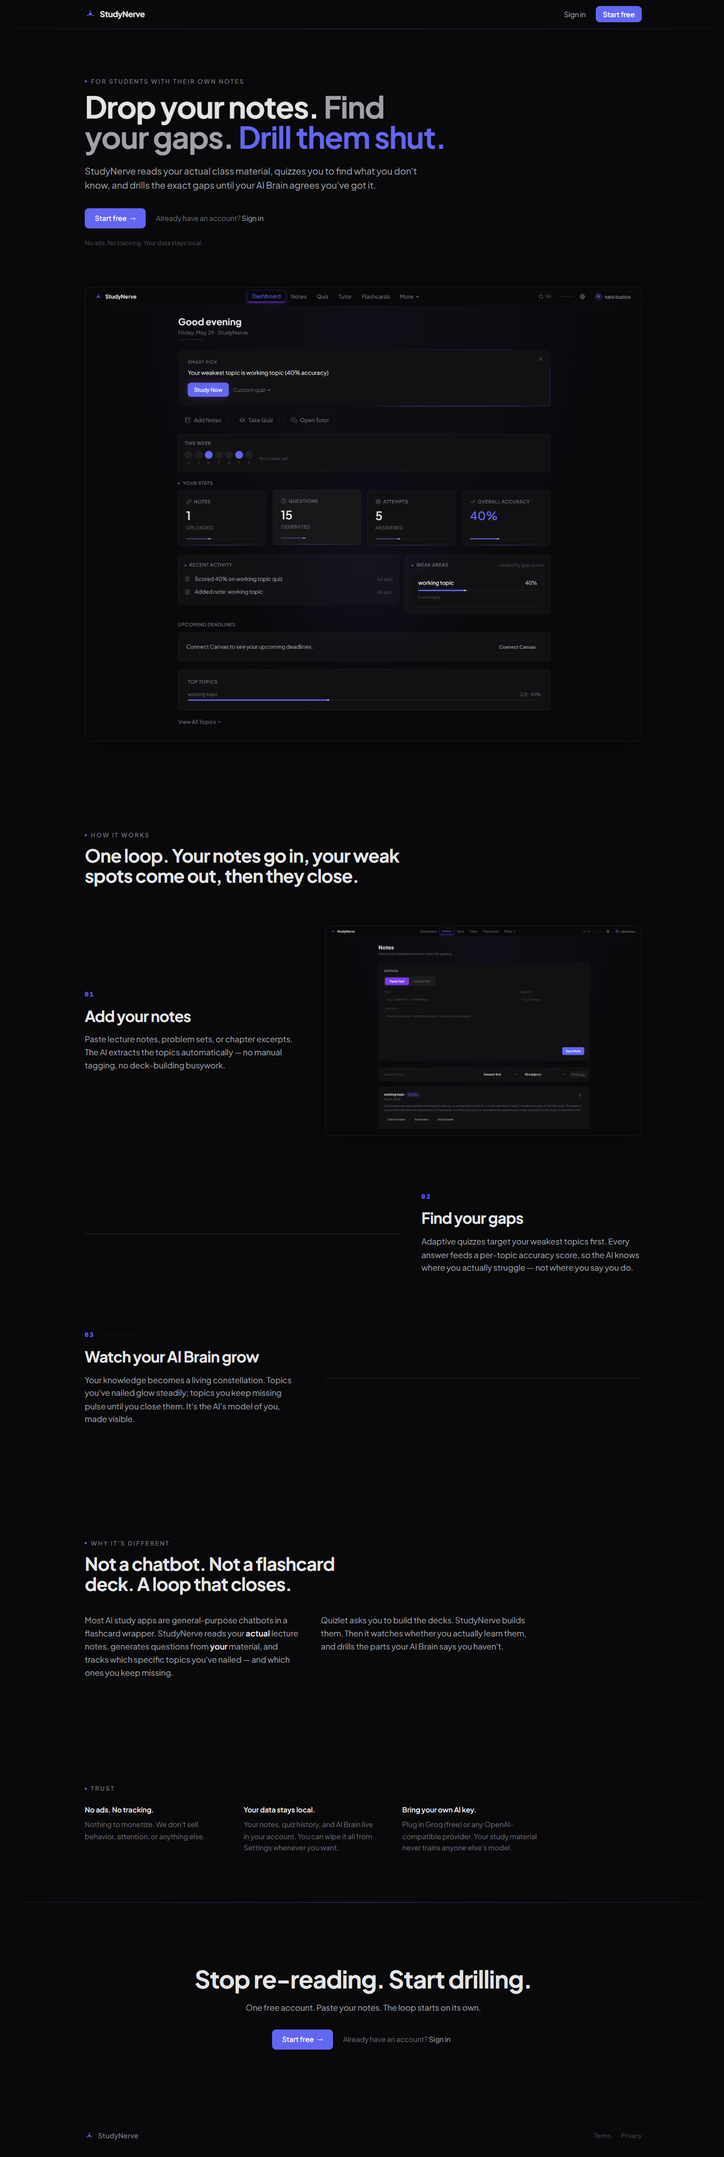
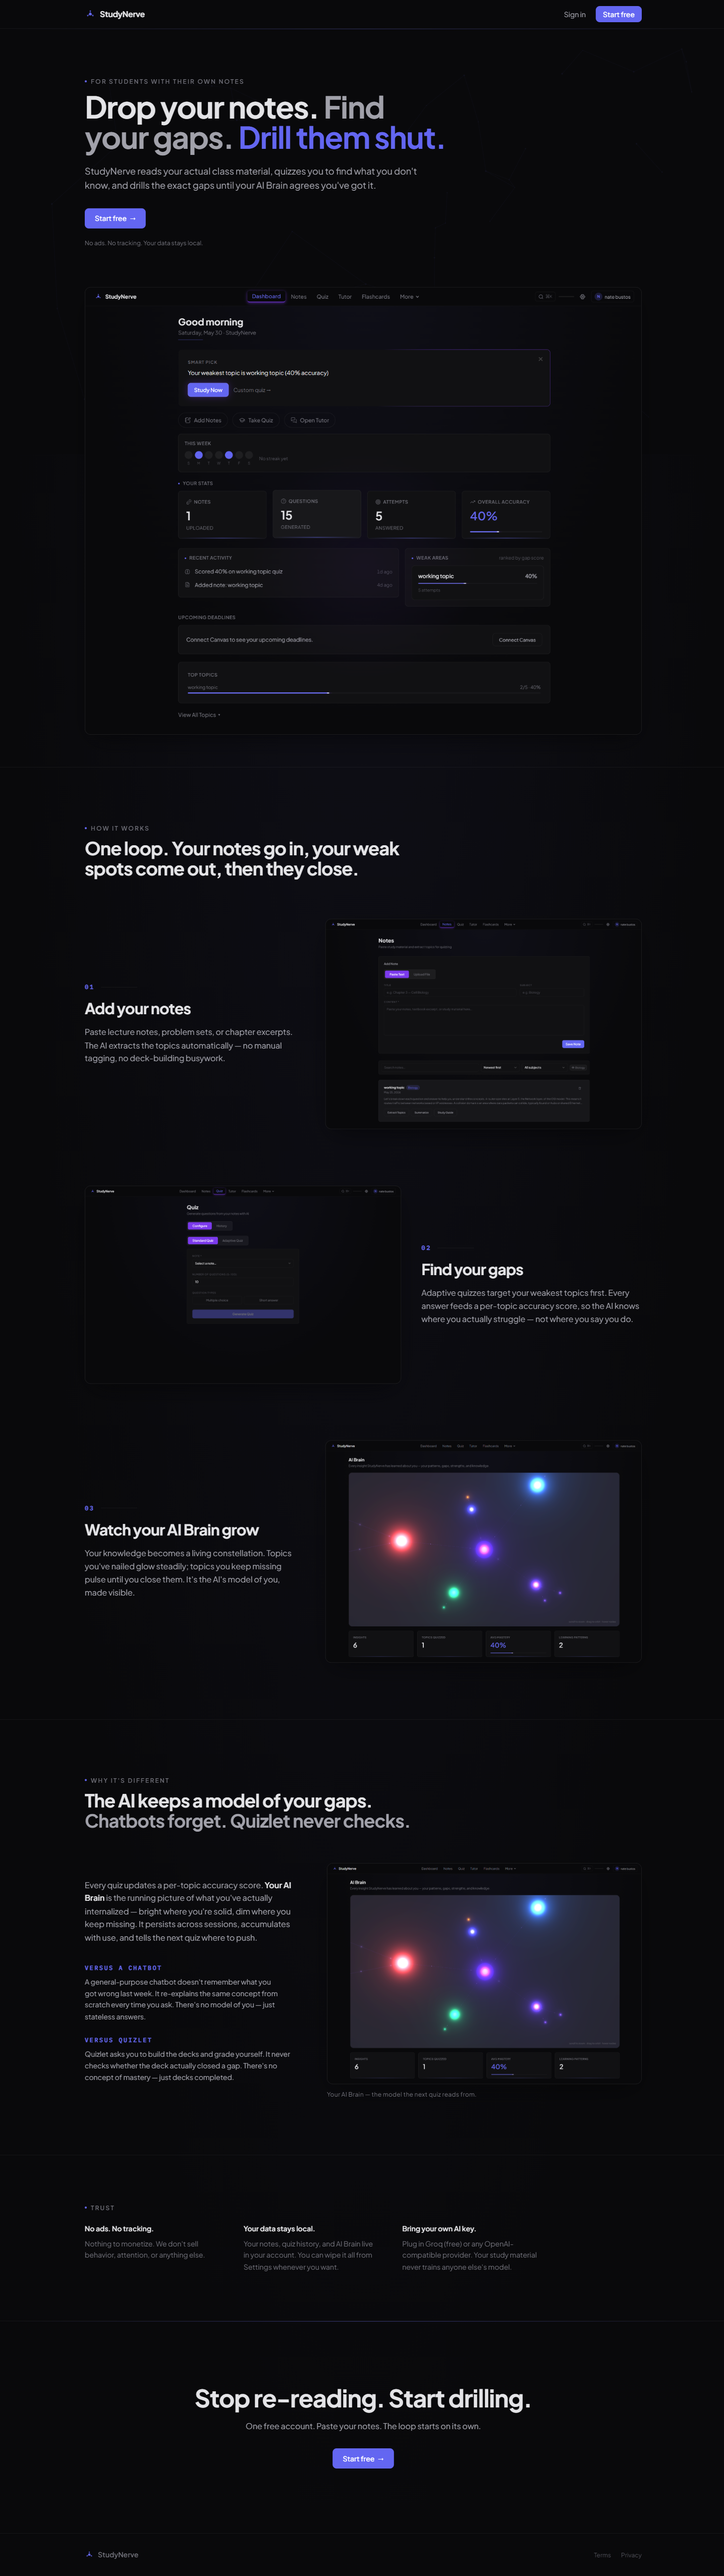
polish(landing): faint synapse-mesh background; DESIGN_LANGUAGE §5 update

diff --git a/frontend/src/pages/Landing.jsx b/frontend/src/pages/Landing.jsx
@@ -78,9 +78,91 @@ function ProductFrame({ src, alt }) {
   )
 }
 
+// ── Synapse mesh background ───────────────────────────────────────────────────
+// Faint static brand-mesh per DESIGN_LANGUAGE §5: small accent dots + thin
+// connecting hairlines, fixed behind opaque content, ~7% opacity. Static —
+// no motion, no glow, no wash. Points/edges are generated once with a fixed
+// seed so the pattern is stable across renders and devices.
+function seededRng(seed) {
+  let s = seed >>> 0
+  return () => {
+    s = (Math.imul(s, 1664525) + 1013904223) >>> 0
+    return s / 0x100000000
+  }
+}
+
+const MESH = (() => {
+  const rng = seededRng(1729)
+  const W = 1440
+  const H = 900
+  const margin = 60
+  const count = 42
+  const points = Array.from({ length: count }, () => ({
+    x: margin + rng() * (W - 2 * margin),
+    y: margin + rng() * (H - 2 * margin),
+    radius: 0.6 + rng() * 1.1,
+  }))
+  const seen = new Set()
+  const edges = []
+  points.forEach((p, i) => {
+    const k = rng() > 0.55 ? 2 : 1
+    const neighbors = points
+      .map((q, j) => ({ j, d: Math.hypot(p.x - q.x, p.y - q.y) }))
+      .filter((e) => e.j !== i)
+      .sort((a, b) => a.d - b.d)
+    for (let n = 0; n < k && n < neighbors.length; n++) {
+      const a = Math.min(i, neighbors[n].j)
+      const b = Math.max(i, neighbors[n].j)
+      const key = `${a}-${b}`
+      if (!seen.has(key)) {
+        seen.add(key)
+        edges.push([a, b])
+      }
+    }
+  })
+  return { points, edges }
+})()
+
+function SynapseMesh() {
+  return (
+    <div
+      aria-hidden
+      className="fixed inset-0 bg-deep-bg pointer-events-none"
+      style={{ zIndex: 0 }}
+    >
+      <svg
+        viewBox="0 0 1440 900"
+        preserveAspectRatio="xMidYMid slice"
+        width="100%"
+        height="100%"
+        style={{ opacity: 0.07, display: 'block' }}
+      >
+        <g stroke="#6366f1" strokeWidth="0.5" strokeLinecap="round">
+          {MESH.edges.map(([a, b], i) => (
+            <line
+              key={i}
+              x1={MESH.points[a].x}
+              y1={MESH.points[a].y}
+              x2={MESH.points[b].x}
+              y2={MESH.points[b].y}
+            />
+          ))}
+        </g>
+        <g fill="#6366f1">
+          {MESH.points.map((p, i) => (
+            <circle key={i} cx={p.x} cy={p.y} r={p.radius} />
+          ))}
+        </g>
+      </svg>
+    </div>
+  )
+}
+
 export default function Landing() {
   return (
-    <div className="min-h-screen bg-deep-bg text-ink-primary">
+    <div className="min-h-screen text-ink-primary relative">
+      <SynapseMesh />
+      <div className="relative" style={{ zIndex: 1 }}>
       {/* Nav */}
       <header
         className="sticky top-0 z-30 border-b border-border-subtle backdrop-blur"
@@ -346,6 +428,7 @@ export default function Landing() {
           </div>
         </div>
       </footer>
+      </div>
     </div>
   )
 }

diff --git a/screenshots/capture-landing-mesh.js b/screenshots/capture-landing-mesh.js
@@ -1,0 +1,50 @@
+const { chromium } = require('playwright');
+const path = require('path');
+
+const APP = 'http://localhost:5173';
+const OUT = __dirname;
+const VIEWPORTS = {
+  desktop: { width: 1440, height: 900 },
+  mobile: { width: 375, height: 812 },
+};
+const sleep = (ms) => new Promise((r) => setTimeout(r, ms));
+
+(async () => {
+  const written = [];
+  const browser = await chromium.launch({ headless: false });
+
+  for (const [vpName, vp] of Object.entries(VIEWPORTS)) {
+    const ctx = await browser.newContext({ viewport: vp });
+    const page = await ctx.newPage();
+    console.log(`[${vpName}] /  (landing + mesh)`);
+    await page.goto(APP + '/', { waitUntil: 'domcontentloaded', timeout: 30000 });
+    try { await page.waitForLoadState('networkidle', { timeout: 15000 }); } catch {}
+    // Force any lazy images + scroll cycle so fullPage captures everything
+    await page.evaluate(async () => {
+      await new Promise((res) => {
+        const total = document.body.scrollHeight;
+        let y = 0;
+        const tick = () => {
+          y += 400;
+          window.scrollTo(0, y);
+          if (y >= total) { window.scrollTo(0, 0); setTimeout(res, 400); }
+          else setTimeout(tick, 60);
+        };
+        tick();
+      });
+    });
+    await sleep(1000);
+    const file = path.join(OUT, `landing-${vpName}.png`);
+    await page.screenshot({ path: file, fullPage: true });
+    written.push(file);
+    console.log(`  -> ${file}`);
+    await ctx.close();
+  }
+  await browser.close();
+  console.log('');
+  console.log('Files written:');
+  for (const f of written) console.log('  ' + f);
+})().catch((err) => {
+  console.error('FATAL:', err);
+  process.exit(1);
+});

diff --git a/DESIGN_LANGUAGE.md b/DESIGN_LANGUAGE.md
@@ -1,0 +1,84 @@
+# StudyNerve — Design Language
+
+The single source of truth. Every page is built against this. If a page deviates, **the page is wrong, not the spec.** Read this before touching any page.
+
+---
+
+## 0. Principles
+- **Flat, dark, focused.** Content is the UI. Decoration earns its place or it's gone.
+- **Real data only.** No fake trends, placeholders, or zeros-as-failure. Missing data shows a real empty state.
+- **One way to do each thing.** Same header, same card, same spacing, same buttons on every page.
+- **Alive, not noisy.** Permitted life: hover lifts, the hero gradient border, progress glows, the graph canvas. Banned: animated/washed decorative backgrounds.
+
+---
+
+## 1. Color — use tokens, never hardcode
+```
+deep.bg        #09090b      deep.surface   #111113      deep.elevated  #18181b
+ink.primary    #e4e4e7      ink.secondary  #a1a1aa      ink.muted      #71717a    ink.faint #52525b
+accent         #6366f1      accent.hover   #818cf8      accent.muted   rgba(99,102,241,0.15)
+border.subtle  rgba(255,255,255,0.06)        border.hover  rgba(255,255,255,0.10)
+success        #22c55e      danger         #ef4444      warning        #f59e0b
+```
+- Semantic colors (success/danger/warning) are for **status only**, never decoration.
+- `danger` is **never** used for a neutral value (no red 0%).
+- No raw `zinc-*`, `indigo-*`, `text-white/NN`, or hex literals in components. If it's a color, it's a token.
+
+## 2. Typography
+Font: Plus Jakarta Sans (UI), IBM Plex Mono (code/optional numerals).
+```
+Page title       text-2xl font-bold        ink.primary
+Page subtitle    text-sm                   ink.muted
+Section header   text-xs font-semibold uppercase tracking-wider   ink.muted
+Card title       text-sm font-medium       ink.primary
+Body             text-sm                   ink.secondary
+Metadata         text-xs                   ink.muted
+Big stat number  text-3xl font-bold        ink.primary  (accent only for the single highlighted metric)
+```
+
+## 3. Spacing — 8px base
+```
+Page frame              max-w-6xl · mx-auto · px-6 · py-8
+Between sections        space-y-8
+Section header → body   mt-4
+Card padding            p-6 (standard) / p-5 (compact)
+Grid / flex gaps        gap-4
+```
+No arbitrary values (`p-[13px]`, `mt-[7px]`). Stay on the scale.
+
+## 4. Page skeleton — every page, no exceptions
+```
+[ Page header ]   title + subtitle
+[ Section ]       section-header + content
+[ Section ]       ...
+```
+Same max-width, same padding, same vertical rhythm. No page invents its own frame.
+
+## 5. Background
+Faint static brand-mesh behind opaque content; never a glow or wash. The mesh is the same synapse motif as the logo — small accent dots with thin connecting hairlines, ~5–8% opacity, fixed behind the page. Cards and sections stay fully opaque so text contrast is untouched. The **only** alive surface is the graph canvas (AI Brain). No radial washes, no particle fields, no animated gradients behind content. The hero card's animated border and stat-card hover are the largest permitted accents — nothing full-bleed.
+
+## 6. Components
+- **Card** — `bg-deep-surface`, `border border-border-subtle`, `rounded-xl`, flat (no glassmorphism / backdrop-blur). Interactive cards add `hover:border-border-hover`.
+- **Stat card** — section-header label + big number + optional sublabel + thin accent bottom bar. Identical on every page that shows stats.
+- **Hero card** — animated gradient border. One per page max, for the primary action.
+- **Buttons** — `primary` (bg-accent, white text, hover accent-hover) · `secondary` (border border-border-subtle, ink-secondary, hover border-hover + ink-primary) · `pill` (rounded-full secondary). One primary action per view.
+- Every interactive element has a visible **hover and focus** state. Tap targets ≥ 40px on mobile.
+- Canonical radius: `rounded-xl` for cards/containers, `rounded-full` for pills. Don't mix 8/12/16 ad hoc.
+
+## 7. States — mandatory for every data-driven view
+- **Loading** — skeleton (lists/cards) or centered spinner. Never a blank flash.
+- **Empty** — icon + one-line explanation + a single CTA toward the next step. **Never a wall of zeros.**
+- **Undefined metric** — show `—`, not `0%`. Accuracy with 0 attempts is `—` / "No quizzes yet."
+- **Error** — short message + retry.
+- A brand-new user sees **one clear next step**, not four empty modules.
+
+## 8. Motion
+Allowed: hover lift/border, hero gradient border, progress-glow, graph auto-orbit (pauses on interaction), node entrance. Banned: decorative animated backgrounds, full-bleed glows, anything that moves while the user is reading.
+
+## 9. Brand
+- **Logo** — the locked synapse mark (two nodes + connection). Tile (rounded square, `deep.elevated` bg) for app icon / favicon ≥16px; bare mark for nav. One-color capable. **The logo is fixed — never restyled or recolored per page.**
+- **Nav** — mark + "StudyNerve" wordmark · Dashboard · Notes · Quiz · Tutor · Flashcards · More · ⌘K · settings · account. Active item = accent text + pill.
+
+## 10. Pages
+- **Graph pages consolidate to ONE: AI Brain** — the differentiator (the AI's model of you). The knowledge-constellation ("My Universe") folds in as a mode/toggle or is cut. No second standalone force-graph page.
+- Every other page conforms to §4 skeleton, §6 components, §7 states.
